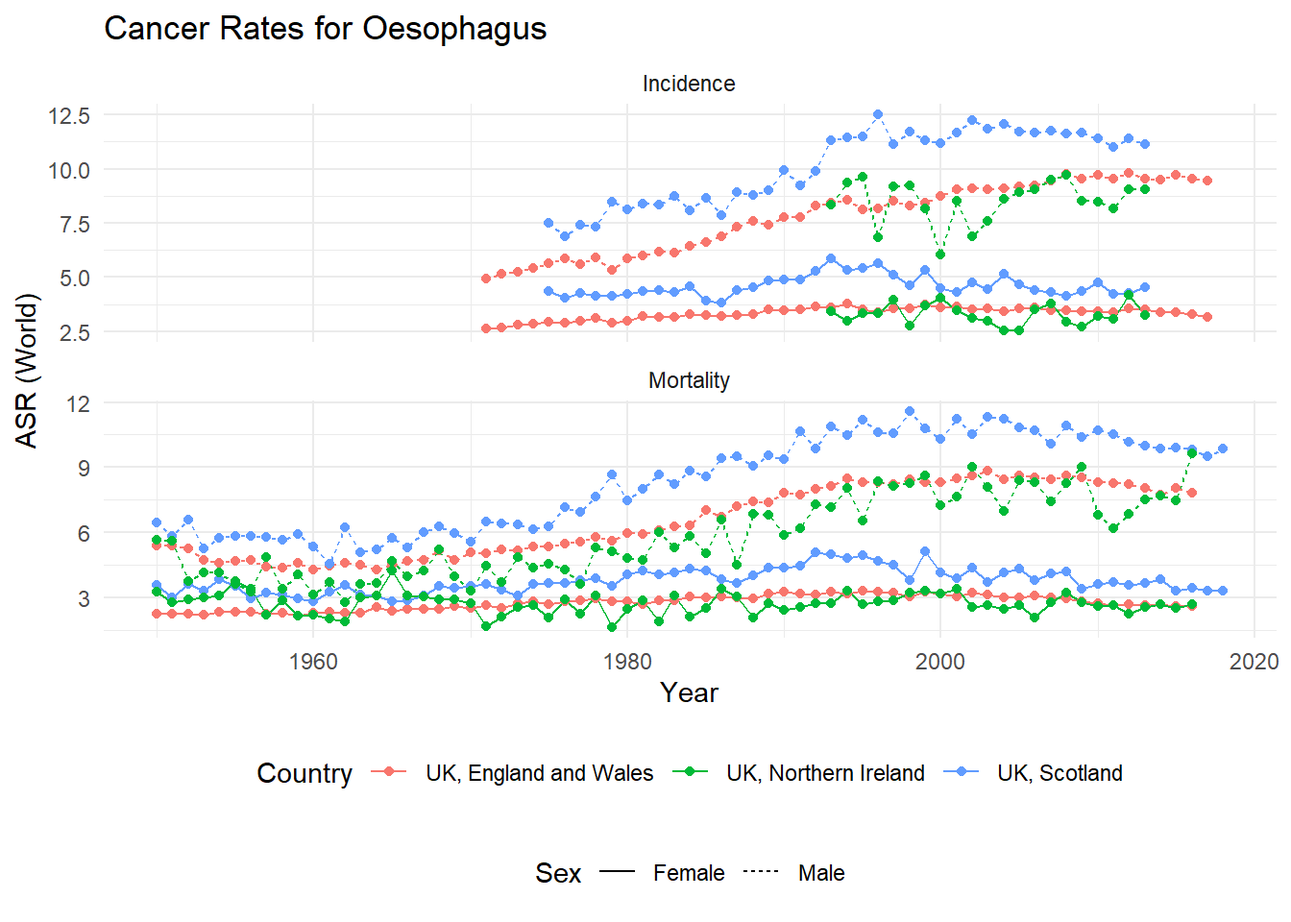
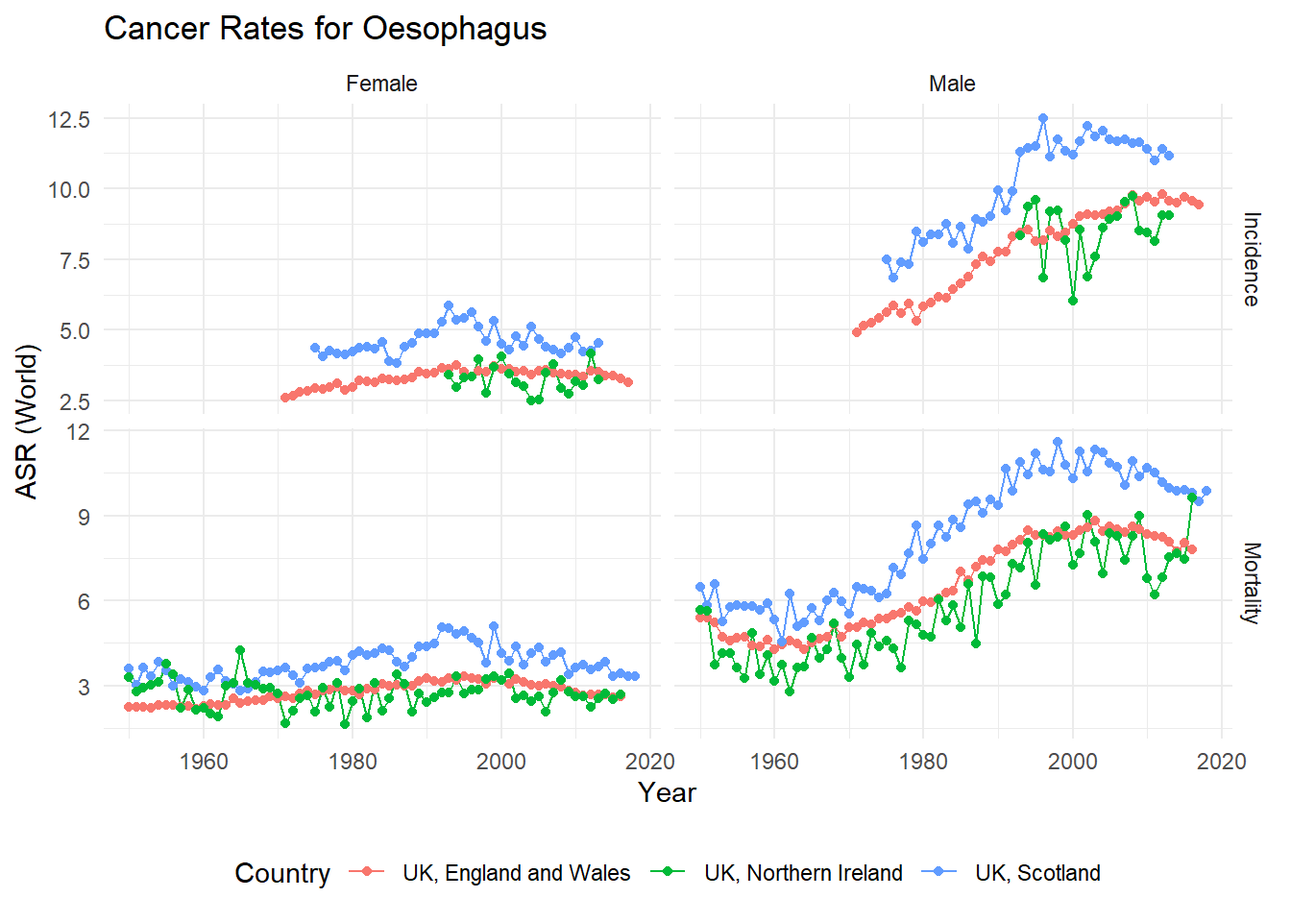
Updating Graphs
Updating cancer graphs to have free y axis

diff --git a/Code/Position Paper.html b/Code/Position Paper.html
@@ -999,20 +999,35 @@ pre > code.sourceCode > span > a:first-child::before { text-decoration: underlin
 <span id="cb25-26"><a href="#cb25-26" aria-hidden="true" tabindex="-1"></a><span class="co">#   ggtitle("Mortality Rates for Top 6 Cancers") +</span></span>
 <span id="cb25-27"><a href="#cb25-27" aria-hidden="true" tabindex="-1"></a><span class="co">#   facet_wrap(~ `Cancer label`, nrow = 3, scales = "free")</span></span>
 <span id="cb25-28"><a href="#cb25-28" aria-hidden="true" tabindex="-1"></a></span>
-<span id="cb25-29"><a href="#cb25-29" aria-hidden="true" tabindex="-1"></a><span class="cf">for</span>(site <span class="cf">in</span> <span class="fu">unique</span>(cancer_data<span class="sc">$</span><span class="st">`</span><span class="at">Cancer label</span><span class="st">`</span>)){</span>
-<span id="cb25-30"><a href="#cb25-30" aria-hidden="true" tabindex="-1"></a>  tempdata <span class="ot">&lt;-</span> cancer_data[cancer_data<span class="sc">$</span><span class="st">`</span><span class="at">Cancer label</span><span class="st">`</span><span class="sc">==</span>site,]</span>
-<span id="cb25-31"><a href="#cb25-31" aria-hidden="true" tabindex="-1"></a>  minyear <span class="ot">&lt;-</span> <span class="fu">min</span>(tempdata<span class="sc">$</span>Year)</span>
-<span id="cb25-32"><a href="#cb25-32" aria-hidden="true" tabindex="-1"></a>  maxyear <span class="ot">&lt;-</span> <span class="fu">max</span>(tempdata<span class="sc">$</span>Year)</span>
-<span id="cb25-33"><a href="#cb25-33" aria-hidden="true" tabindex="-1"></a>  <span class="fu">print</span>(<span class="fu">ggplot</span>(<span class="at">data =</span> tempdata, <span class="fu">aes</span>(<span class="at">x =</span> Year, <span class="at">y =</span> <span class="st">`</span><span class="at">ASR (World)</span><span class="st">`</span>, <span class="at">colour =</span> <span class="st">`</span><span class="at">Country label</span><span class="st">`</span>, <span class="at">linetype =</span> Sex)) <span class="sc">+</span></span>
-<span id="cb25-34"><a href="#cb25-34" aria-hidden="true" tabindex="-1"></a>  <span class="fu">geom_line</span>() <span class="sc">+</span></span>
-<span id="cb25-35"><a href="#cb25-35" aria-hidden="true" tabindex="-1"></a>  <span class="fu">geom_point</span>() <span class="sc">+</span></span>
-<span id="cb25-36"><a href="#cb25-36" aria-hidden="true" tabindex="-1"></a>  <span class="fu">xlim</span>(minyear, maxyear) <span class="sc">+</span></span>
-<span id="cb25-37"><a href="#cb25-37" aria-hidden="true" tabindex="-1"></a>  <span class="fu">ggtitle</span>(<span class="fu">paste0</span>(<span class="st">"Cancer Rates for "</span>, site)) <span class="sc">+</span></span>
-<span id="cb25-38"><a href="#cb25-38" aria-hidden="true" tabindex="-1"></a>  <span class="fu">labs</span>(<span class="at">colour =</span> <span class="st">"Country"</span>, <span class="at">linetype =</span> <span class="st">"Sex"</span>) <span class="sc">+</span></span>
-<span id="cb25-39"><a href="#cb25-39" aria-hidden="true" tabindex="-1"></a>  <span class="fu">theme</span>(<span class="at">legend.position=</span><span class="st">"bottom"</span>,<span class="at">legend.box =</span> <span class="st">"vertical"</span>) <span class="sc">+</span></span>
-<span id="cb25-40"><a href="#cb25-40" aria-hidden="true" tabindex="-1"></a>  <span class="fu">facet_wrap</span>(<span class="sc">~</span> IncMort, <span class="at">scales =</span> <span class="st">"free_y"</span>, <span class="at">dir =</span> <span class="st">"v"</span>))</span>
-<span id="cb25-41"><a href="#cb25-41" aria-hidden="true" tabindex="-1"></a></span>
-<span id="cb25-42"><a href="#cb25-42" aria-hidden="true" tabindex="-1"></a>}</span></code><button title="Copy to Clipboard" class="code-copy-button"><i class="bi"></i></button></pre></div>
+<span id="cb25-29"><a href="#cb25-29" aria-hidden="true" tabindex="-1"></a><span class="co"># for(site in unique(cancer_data$`Cancer label`)){</span></span>
+<span id="cb25-30"><a href="#cb25-30" aria-hidden="true" tabindex="-1"></a><span class="co">#   tempdata &lt;- cancer_data[cancer_data$`Cancer label`==site,]</span></span>
+<span id="cb25-31"><a href="#cb25-31" aria-hidden="true" tabindex="-1"></a><span class="co">#   minyear &lt;- min(tempdata$Year)</span></span>
+<span id="cb25-32"><a href="#cb25-32" aria-hidden="true" tabindex="-1"></a><span class="co">#   maxyear &lt;- max(tempdata$Year)</span></span>
+<span id="cb25-33"><a href="#cb25-33" aria-hidden="true" tabindex="-1"></a><span class="co">#   print(ggplot(data = tempdata, aes(x = Year, y = `ASR (World)`, colour = `Country label`, linetype = Sex)) +</span></span>
+<span id="cb25-34"><a href="#cb25-34" aria-hidden="true" tabindex="-1"></a><span class="co">#   geom_line() +</span></span>
+<span id="cb25-35"><a href="#cb25-35" aria-hidden="true" tabindex="-1"></a><span class="co">#   geom_point() +</span></span>
+<span id="cb25-36"><a href="#cb25-36" aria-hidden="true" tabindex="-1"></a><span class="co">#   xlim(minyear, maxyear) +</span></span>
+<span id="cb25-37"><a href="#cb25-37" aria-hidden="true" tabindex="-1"></a><span class="co">#   ggtitle(paste0("Cancer Rates for ", site)) +</span></span>
+<span id="cb25-38"><a href="#cb25-38" aria-hidden="true" tabindex="-1"></a><span class="co">#   labs(colour = "Country", linetype = "Sex") +</span></span>
+<span id="cb25-39"><a href="#cb25-39" aria-hidden="true" tabindex="-1"></a><span class="co">#   theme(legend.position="bottom",legend.box = "vertical") +</span></span>
+<span id="cb25-40"><a href="#cb25-40" aria-hidden="true" tabindex="-1"></a><span class="co">#   facet_wrap(~ IncMort, scales = "free_y", dir = "v"))</span></span>
+<span id="cb25-41"><a href="#cb25-41" aria-hidden="true" tabindex="-1"></a><span class="co"># </span></span>
+<span id="cb25-42"><a href="#cb25-42" aria-hidden="true" tabindex="-1"></a><span class="co"># }</span></span>
+<span id="cb25-43"><a href="#cb25-43" aria-hidden="true" tabindex="-1"></a></span>
+<span id="cb25-44"><a href="#cb25-44" aria-hidden="true" tabindex="-1"></a><span class="cf">for</span>(site <span class="cf">in</span> <span class="fu">unique</span>(cancer_data<span class="sc">$</span><span class="st">`</span><span class="at">Cancer label</span><span class="st">`</span>)){</span>
+<span id="cb25-45"><a href="#cb25-45" aria-hidden="true" tabindex="-1"></a>  tempdata <span class="ot">&lt;-</span> cancer_data[cancer_data<span class="sc">$</span><span class="st">`</span><span class="at">Cancer label</span><span class="st">`</span><span class="sc">==</span>site,]</span>
+<span id="cb25-46"><a href="#cb25-46" aria-hidden="true" tabindex="-1"></a>  minyear <span class="ot">&lt;-</span> <span class="fu">min</span>(tempdata<span class="sc">$</span>Year)</span>
+<span id="cb25-47"><a href="#cb25-47" aria-hidden="true" tabindex="-1"></a>  maxyear <span class="ot">&lt;-</span> <span class="fu">max</span>(tempdata<span class="sc">$</span>Year)</span>
+<span id="cb25-48"><a href="#cb25-48" aria-hidden="true" tabindex="-1"></a>  <span class="fu">print</span>(<span class="fu">ggplot</span>(<span class="at">data =</span> tempdata, <span class="fu">aes</span>(<span class="at">x =</span> Year, <span class="at">y =</span> <span class="st">`</span><span class="at">ASR (World)</span><span class="st">`</span>, <span class="at">colour =</span> <span class="st">`</span><span class="at">Country label</span><span class="st">`</span>)) <span class="sc">+</span></span>
+<span id="cb25-49"><a href="#cb25-49" aria-hidden="true" tabindex="-1"></a>  <span class="fu">geom_line</span>() <span class="sc">+</span></span>
+<span id="cb25-50"><a href="#cb25-50" aria-hidden="true" tabindex="-1"></a>  <span class="fu">geom_point</span>() <span class="sc">+</span></span>
+<span id="cb25-51"><a href="#cb25-51" aria-hidden="true" tabindex="-1"></a>  <span class="fu">xlim</span>(minyear, maxyear) <span class="sc">+</span></span>
+<span id="cb25-52"><a href="#cb25-52" aria-hidden="true" tabindex="-1"></a>  <span class="fu">ggtitle</span>(<span class="fu">paste0</span>(<span class="st">"Cancer Rates for "</span>, site)) <span class="sc">+</span></span>
+<span id="cb25-53"><a href="#cb25-53" aria-hidden="true" tabindex="-1"></a>  <span class="fu">labs</span>(<span class="at">colour =</span> <span class="st">"Country"</span>) <span class="sc">+</span></span>
+<span id="cb25-54"><a href="#cb25-54" aria-hidden="true" tabindex="-1"></a>  <span class="fu">theme</span>(<span class="at">legend.position=</span><span class="st">"bottom"</span>,<span class="at">legend.box =</span> <span class="st">"vertical"</span>) <span class="sc">+</span></span>
+<span id="cb25-55"><a href="#cb25-55" aria-hidden="true" tabindex="-1"></a>  <span class="fu">facet_grid</span>(IncMort<span class="sc">~</span> Sex, <span class="at">scales =</span> <span class="st">"free_y"</span>))</span>
+<span id="cb25-56"><a href="#cb25-56" aria-hidden="true" tabindex="-1"></a></span>
+<span id="cb25-57"><a href="#cb25-57" aria-hidden="true" tabindex="-1"></a>}</span></code><button title="Copy to Clipboard" class="code-copy-button"><i class="bi"></i></button></pre></div>
 <div class="cell-output-display">
 <p><img src="Position-Paper_files/figure-html/unnamed-chunk-21-1.png" class="img-fluid" width="672"></p>
 </div>
@@ -1031,104 +1046,72 @@ pre > code.sourceCode > span > a:first-child::before { text-decoration: underlin
 <div class="cell-output-display">
 <p><img src="Position-Paper_files/figure-html/unnamed-chunk-21-6.png" class="img-fluid" width="672"></p>
 </div>
-<div class="sourceCode cell-code" id="cb26"><pre class="sourceCode r code-with-copy"><code class="sourceCode r"><span id="cb26-1"><a href="#cb26-1" aria-hidden="true" tabindex="-1"></a><span class="cf">for</span>(site <span class="cf">in</span> <span class="fu">unique</span>(cancer_data<span class="sc">$</span><span class="st">`</span><span class="at">Cancer label</span><span class="st">`</span>)){</span>
-<span id="cb26-2"><a href="#cb26-2" aria-hidden="true" tabindex="-1"></a>  tempdata <span class="ot">&lt;-</span> cancer_data[cancer_data<span class="sc">$</span><span class="st">`</span><span class="at">Cancer label</span><span class="st">`</span><span class="sc">==</span>site,]</span>
-<span id="cb26-3"><a href="#cb26-3" aria-hidden="true" tabindex="-1"></a>  minyear <span class="ot">&lt;-</span> <span class="fu">min</span>(tempdata<span class="sc">$</span>Year)</span>
-<span id="cb26-4"><a href="#cb26-4" aria-hidden="true" tabindex="-1"></a>  maxyear <span class="ot">&lt;-</span> <span class="fu">max</span>(tempdata<span class="sc">$</span>Year)</span>
-<span id="cb26-5"><a href="#cb26-5" aria-hidden="true" tabindex="-1"></a>  <span class="fu">print</span>(<span class="fu">ggplot</span>(<span class="at">data =</span> tempdata, <span class="fu">aes</span>(<span class="at">x =</span> Year, <span class="at">y =</span> <span class="st">`</span><span class="at">ASR (World)</span><span class="st">`</span>, <span class="at">colour =</span> <span class="st">`</span><span class="at">Country label</span><span class="st">`</span>)) <span class="sc">+</span></span>
-<span id="cb26-6"><a href="#cb26-6" aria-hidden="true" tabindex="-1"></a>  <span class="fu">geom_line</span>() <span class="sc">+</span></span>
-<span id="cb26-7"><a href="#cb26-7" aria-hidden="true" tabindex="-1"></a>  <span class="fu">geom_point</span>() <span class="sc">+</span></span>
-<span id="cb26-8"><a href="#cb26-8" aria-hidden="true" tabindex="-1"></a>  <span class="fu">xlim</span>(minyear, maxyear) <span class="sc">+</span></span>
-<span id="cb26-9"><a href="#cb26-9" aria-hidden="true" tabindex="-1"></a>  <span class="fu">ggtitle</span>(<span class="fu">paste0</span>(<span class="st">"Cancer Rates for "</span>, site)) <span class="sc">+</span></span>
-<span id="cb26-10"><a href="#cb26-10" aria-hidden="true" tabindex="-1"></a>  <span class="fu">labs</span>(<span class="at">colour =</span> <span class="st">"Country"</span>) <span class="sc">+</span></span>
-<span id="cb26-11"><a href="#cb26-11" aria-hidden="true" tabindex="-1"></a>  <span class="fu">theme</span>(<span class="at">legend.position=</span><span class="st">"bottom"</span>,<span class="at">legend.box =</span> <span class="st">"vertical"</span>) <span class="sc">+</span></span>
-<span id="cb26-12"><a href="#cb26-12" aria-hidden="true" tabindex="-1"></a>  <span class="fu">facet_grid</span>(IncMort<span class="sc">~</span> Sex))</span>
-<span id="cb26-13"><a href="#cb26-13" aria-hidden="true" tabindex="-1"></a></span>
-<span id="cb26-14"><a href="#cb26-14" aria-hidden="true" tabindex="-1"></a>}</span></code><button title="Copy to Clipboard" class="code-copy-button"><i class="bi"></i></button></pre></div>
-<div class="cell-output-display">
-<p><img src="Position-Paper_files/figure-html/unnamed-chunk-21-7.png" class="img-fluid" width="672"></p>
-</div>
-<div class="cell-output-display">
-<p><img src="Position-Paper_files/figure-html/unnamed-chunk-21-8.png" class="img-fluid" width="672"></p>
-</div>
-<div class="cell-output-display">
-<p><img src="Position-Paper_files/figure-html/unnamed-chunk-21-9.png" class="img-fluid" width="672"></p>
-</div>
-<div class="cell-output-display">
-<p><img src="Position-Paper_files/figure-html/unnamed-chunk-21-10.png" class="img-fluid" width="672"></p>
-</div>
-<div class="cell-output-display">
-<p><img src="Position-Paper_files/figure-html/unnamed-chunk-21-11.png" class="img-fluid" width="672"></p>
-</div>
-<div class="cell-output-display">
-<p><img src="Position-Paper_files/figure-html/unnamed-chunk-21-12.png" class="img-fluid" width="672"></p>
-</div>
 </div>
 </section>
 <section id="diabetes-data" class="level2">
 <h2 class="anchored" data-anchor-id="diabetes-data">Diabetes Data</h2>
 <div class="cell">
-<div class="sourceCode cell-code" id="cb27"><pre class="sourceCode r code-with-copy"><code class="sourceCode r"><span id="cb27-1"><a href="#cb27-1" aria-hidden="true" tabindex="-1"></a>diabetes_data <span class="ot">&lt;-</span> <span class="fu">integer</span>(<span class="dv">0</span>)</span>
-<span id="cb27-2"><a href="#cb27-2" aria-hidden="true" tabindex="-1"></a></span>
-<span id="cb27-3"><a href="#cb27-3" aria-hidden="true" tabindex="-1"></a>sheets <span class="ot">&lt;-</span> <span class="fu">excel_sheets</span>(<span class="st">"Diabetes_Data.xlsx"</span>)</span>
-<span id="cb27-4"><a href="#cb27-4" aria-hidden="true" tabindex="-1"></a></span>
-<span id="cb27-5"><a href="#cb27-5" aria-hidden="true" tabindex="-1"></a>england_sheets <span class="ot">&lt;-</span> sheets[<span class="fu">grepl</span>(sheets, <span class="at">pattern =</span> <span class="st">"England"</span>)]</span>
-<span id="cb27-6"><a href="#cb27-6" aria-hidden="true" tabindex="-1"></a></span>
-<span id="cb27-7"><a href="#cb27-7" aria-hidden="true" tabindex="-1"></a><span class="cf">for</span>(sheet <span class="cf">in</span> england_sheets){</span>
-<span id="cb27-8"><a href="#cb27-8" aria-hidden="true" tabindex="-1"></a></span>
-<span id="cb27-9"><a href="#cb27-9" aria-hidden="true" tabindex="-1"></a>  nocol <span class="ot">&lt;-</span> <span class="fu">ncol</span>(<span class="fu">read_excel</span>(<span class="st">"Diabetes_Data.xlsx"</span>, <span class="at">sheet =</span> sheet))</span>
-<span id="cb27-10"><a href="#cb27-10" aria-hidden="true" tabindex="-1"></a>  tempdata <span class="ot">&lt;-</span> <span class="fu">read_excel</span>(<span class="st">"Diabetes_Data.xlsx"</span>, <span class="at">sheet =</span> sheet, <span class="at">col_types =</span> <span class="fu">c</span>(<span class="st">"text"</span>, <span class="fu">rep</span>(<span class="st">"numeric"</span>, nocol<span class="dv">-1</span>)))</span>
-<span id="cb27-11"><a href="#cb27-11" aria-hidden="true" tabindex="-1"></a>  group <span class="ot">&lt;-</span> <span class="fu">gsub</span>(<span class="at">x =</span> sheet, <span class="at">pattern =</span> <span class="st">"England_"</span>, <span class="at">replacement =</span> <span class="st">""</span>)</span>
-<span id="cb27-12"><a href="#cb27-12" aria-hidden="true" tabindex="-1"></a>  tempdata <span class="ot">&lt;-</span> <span class="fu">pull_HSE_diabetes_data</span>(<span class="at">data =</span> tempdata, <span class="at">group =</span> group)</span>
-<span id="cb27-13"><a href="#cb27-13" aria-hidden="true" tabindex="-1"></a>  tempdata<span class="sc">$</span>section <span class="ot">&lt;-</span> <span class="st">"Diabetes"</span></span>
-<span id="cb27-14"><a href="#cb27-14" aria-hidden="true" tabindex="-1"></a>  diabetes_data <span class="ot">&lt;-</span> <span class="fu">rbind</span>(diabetes_data, tempdata)</span>
-<span id="cb27-15"><a href="#cb27-15" aria-hidden="true" tabindex="-1"></a>        </span>
-<span id="cb27-16"><a href="#cb27-16" aria-hidden="true" tabindex="-1"></a>}</span>
-<span id="cb27-17"><a href="#cb27-17" aria-hidden="true" tabindex="-1"></a></span>
-<span id="cb27-18"><a href="#cb27-18" aria-hidden="true" tabindex="-1"></a>scotland_sheets <span class="ot">&lt;-</span> sheets[<span class="fu">grepl</span>(sheets, <span class="at">pattern =</span> <span class="st">"Scotland"</span>)]</span>
-<span id="cb27-19"><a href="#cb27-19" aria-hidden="true" tabindex="-1"></a></span>
-<span id="cb27-20"><a href="#cb27-20" aria-hidden="true" tabindex="-1"></a></span>
-<span id="cb27-21"><a href="#cb27-21" aria-hidden="true" tabindex="-1"></a><span class="cf">for</span>(sheet <span class="cf">in</span> scotland_sheets){</span>
-<span id="cb27-22"><a href="#cb27-22" aria-hidden="true" tabindex="-1"></a>  tempdata <span class="ot">&lt;-</span> <span class="fu">read_excel</span>(<span class="st">"Diabetes_Data.xlsx"</span>, <span class="at">sheet =</span> sheet)</span>
-<span id="cb27-23"><a href="#cb27-23" aria-hidden="true" tabindex="-1"></a>  group <span class="ot">&lt;-</span> <span class="fu">gsub</span>(<span class="at">x =</span> sheet, <span class="at">pattern =</span> <span class="st">"Scotland_"</span>, <span class="at">replacement =</span> <span class="st">""</span>)</span>
-<span id="cb27-24"><a href="#cb27-24" aria-hidden="true" tabindex="-1"></a>  tempdata <span class="ot">&lt;-</span> <span class="fu">pull_SHS_data</span>(<span class="at">data =</span> tempdata, <span class="at">group =</span> group)</span>
-<span id="cb27-25"><a href="#cb27-25" aria-hidden="true" tabindex="-1"></a>  tempdata<span class="sc">$</span>section <span class="ot">&lt;-</span> <span class="st">"Diabetes"</span></span>
-<span id="cb27-26"><a href="#cb27-26" aria-hidden="true" tabindex="-1"></a>  tempdata<span class="sc">$</span>variable <span class="ot">=</span> <span class="fu">ifelse</span>(tempdata<span class="sc">$</span>variable <span class="sc">==</span> <span class="st">"Yes"</span>, <span class="st">"% Diabetes"</span>, <span class="st">"% No Diabetes"</span>)</span>
-<span id="cb27-27"><a href="#cb27-27" aria-hidden="true" tabindex="-1"></a>  diabetes_data <span class="ot">&lt;-</span> <span class="fu">rbind</span>(diabetes_data, tempdata)</span>
-<span id="cb27-28"><a href="#cb27-28" aria-hidden="true" tabindex="-1"></a>}</span>
-<span id="cb27-29"><a href="#cb27-29" aria-hidden="true" tabindex="-1"></a></span>
-<span id="cb27-30"><a href="#cb27-30" aria-hidden="true" tabindex="-1"></a>tempdata <span class="ot">&lt;-</span> <span class="fu">read_excel</span>(<span class="st">"Diabetes_Data.xlsx"</span>, <span class="at">sheet =</span> <span class="st">"NIreland"</span>) </span>
-<span id="cb27-31"><a href="#cb27-31" aria-hidden="true" tabindex="-1"></a></span>
-<span id="cb27-32"><a href="#cb27-32" aria-hidden="true" tabindex="-1"></a>tempdata <span class="ot">&lt;-</span> tempdata <span class="sc">|&gt;</span></span>
-<span id="cb27-33"><a href="#cb27-33" aria-hidden="true" tabindex="-1"></a>  <span class="fu">pivot_longer</span>(<span class="at">cols =</span> <span class="fu">colnames</span>(tempdata)[<span class="dv">2</span><span class="sc">:</span><span class="fu">ncol</span>(tempdata)]) <span class="sc">|&gt;</span></span>
-<span id="cb27-34"><a href="#cb27-34" aria-hidden="true" tabindex="-1"></a>  <span class="fu">rename</span>(<span class="at">year =</span> name, <span class="at">section =</span> <span class="st">`</span><span class="at">...1</span><span class="st">`</span>) <span class="sc">|&gt;</span></span>
-<span id="cb27-35"><a href="#cb27-35" aria-hidden="true" tabindex="-1"></a>  <span class="fu">mutate</span>(<span class="at">value =</span> value<span class="sc">/</span><span class="dv">10</span>) <span class="sc">|&gt;</span></span>
-<span id="cb27-36"><a href="#cb27-36" aria-hidden="true" tabindex="-1"></a>  <span class="fu">mutate</span>(<span class="at">age_group =</span> <span class="st">"17+"</span>, <span class="at">variable =</span> <span class="st">"% Diabetes"</span>, <span class="at">group =</span> <span class="st">"All"</span>, <span class="at">country =</span> <span class="st">"N. Ireland"</span>)</span>
-<span id="cb27-37"><a href="#cb27-37" aria-hidden="true" tabindex="-1"></a></span>
-<span id="cb27-38"><a href="#cb27-38" aria-hidden="true" tabindex="-1"></a>diabetes_data <span class="ot">&lt;-</span> <span class="fu">rbind</span>(diabetes_data, tempdata)</span>
-<span id="cb27-39"><a href="#cb27-39" aria-hidden="true" tabindex="-1"></a></span>
-<span id="cb27-40"><a href="#cb27-40" aria-hidden="true" tabindex="-1"></a>diabetes_data <span class="sc">|&gt;</span></span>
-<span id="cb27-41"><a href="#cb27-41" aria-hidden="true" tabindex="-1"></a>  <span class="fu">mutate</span>(<span class="at">year =</span> <span class="fu">case_when</span>(</span>
-<span id="cb27-42"><a href="#cb27-42" aria-hidden="true" tabindex="-1"></a>    <span class="fu">grepl</span>(year, <span class="at">pattern =</span> <span class="st">"</span><span class="sc">\\</span><span class="st">/"</span>) <span class="sc">~</span> <span class="fu">map_chr</span>(<span class="fu">strsplit</span>(year, <span class="st">"/"</span>), <span class="dv">1</span>),</span>
-<span id="cb27-43"><a href="#cb27-43" aria-hidden="true" tabindex="-1"></a>    <span class="cn">TRUE</span> <span class="sc">~</span> year),</span>
-<span id="cb27-44"><a href="#cb27-44" aria-hidden="true" tabindex="-1"></a>    <span class="at">year =</span> <span class="fu">as.numeric</span>(year),</span>
-<span id="cb27-45"><a href="#cb27-45" aria-hidden="true" tabindex="-1"></a>  <span class="at">age_group =</span> <span class="fu">case_when</span>(</span>
-<span id="cb27-46"><a href="#cb27-46" aria-hidden="true" tabindex="-1"></a>    age_group <span class="sc">%in%</span> <span class="fu">c</span>(<span class="st">"All men"</span>, <span class="st">"All women"</span>, <span class="st">"All"</span>, <span class="st">"All adults"</span>, <span class="st">"Total"</span>) <span class="sc">~</span> <span class="st">"16+"</span>,</span>
-<span id="cb27-47"><a href="#cb27-47" aria-hidden="true" tabindex="-1"></a>    <span class="fu">grepl</span>(age_group, <span class="at">pattern =</span> <span class="st">"Age "</span>) <span class="sc">~</span> <span class="fu">gsub</span>(age_group, <span class="at">pattern =</span> <span class="st">"Age "</span>, <span class="at">replacement =</span> <span class="st">""</span>),</span>
-<span id="cb27-48"><a href="#cb27-48" aria-hidden="true" tabindex="-1"></a>    <span class="fu">grepl</span>(age_group, <span class="at">pattern =</span> <span class="st">" years"</span>) <span class="sc">~</span> <span class="fu">gsub</span>(age_group, <span class="at">pattern =</span> <span class="st">" years"</span>, <span class="at">replacement =</span> <span class="st">""</span>),</span>
-<span id="cb27-49"><a href="#cb27-49" aria-hidden="true" tabindex="-1"></a>    <span class="fu">grepl</span>(age_group, <span class="at">pattern =</span> <span class="st">"All adults "</span>) <span class="sc">~</span> <span class="fu">gsub</span>(age_group, <span class="at">pattern =</span> <span class="st">"All adults "</span>, <span class="at">replacement =</span> <span class="st">""</span>),</span>
-<span id="cb27-50"><a href="#cb27-50" aria-hidden="true" tabindex="-1"></a>    <span class="fu">grepl</span>(age_group, <span class="at">pattern =</span> <span class="st">"All aged "</span>) <span class="sc">~</span> <span class="fu">gsub</span>(age_group, <span class="at">pattern =</span> <span class="st">"All aged "</span>, <span class="at">replacement =</span> <span class="st">""</span>),</span>
-<span id="cb27-51"><a href="#cb27-51" aria-hidden="true" tabindex="-1"></a>    <span class="cn">TRUE</span> <span class="sc">~</span> age_group</span>
-<span id="cb27-52"><a href="#cb27-52" aria-hidden="true" tabindex="-1"></a>  )) <span class="sc">|&gt;</span></span>
-<span id="cb27-53"><a href="#cb27-53" aria-hidden="true" tabindex="-1"></a>  <span class="fu">filter</span>(variable <span class="sc">==</span> <span class="st">"% Diabetes"</span> <span class="sc">&amp;</span> age_group <span class="sc">%in%</span> <span class="fu">c</span>(<span class="st">"16+"</span>, <span class="st">"17+"</span>) <span class="sc">&amp;</span> <span class="fu">grepl</span>(group, <span class="at">pattern =</span> <span class="st">"All"</span>)) <span class="sc">|&gt;</span></span>
-<span id="cb27-54"><a href="#cb27-54" aria-hidden="true" tabindex="-1"></a>  <span class="fu">ggplot</span>(<span class="fu">aes</span>(<span class="at">x =</span> year, <span class="at">y =</span> value, <span class="at">colour =</span> country)) <span class="sc">+</span></span>
-<span id="cb27-55"><a href="#cb27-55" aria-hidden="true" tabindex="-1"></a>  <span class="fu">geom_line</span>() <span class="sc">+</span></span>
-<span id="cb27-56"><a href="#cb27-56" aria-hidden="true" tabindex="-1"></a>  <span class="fu">geom_point</span>() <span class="sc">+</span></span>
-<span id="cb27-57"><a href="#cb27-57" aria-hidden="true" tabindex="-1"></a>  <span class="fu">xlab</span>(<span class="st">"Year"</span>) <span class="sc">+</span></span>
-<span id="cb27-58"><a href="#cb27-58" aria-hidden="true" tabindex="-1"></a>  <span class="fu">ylab</span>(<span class="st">"% Diabetes"</span>) <span class="sc">+</span></span>
-<span id="cb27-59"><a href="#cb27-59" aria-hidden="true" tabindex="-1"></a>  <span class="fu">ggtitle</span>(<span class="st">"% Diabetes in Adults"</span>) <span class="sc">+</span></span>
-<span id="cb27-60"><a href="#cb27-60" aria-hidden="true" tabindex="-1"></a>  <span class="fu">labs</span>(<span class="at">colour =</span>  <span class="st">"Country"</span>, <span class="at">caption =</span> <span class="st">"*Adult for England and Scotland defined as aged &gt;15, for N. Ireland defined as aged &gt;16."</span>) <span class="sc">+</span></span>
-<span id="cb27-61"><a href="#cb27-61" aria-hidden="true" tabindex="-1"></a>  <span class="fu">scale_x_continuous</span>(<span class="at">breaks =</span> <span class="fu">pretty_breaks</span>())</span></code><button title="Copy to Clipboard" class="code-copy-button"><i class="bi"></i></button></pre></div>
+<div class="sourceCode cell-code" id="cb26"><pre class="sourceCode r code-with-copy"><code class="sourceCode r"><span id="cb26-1"><a href="#cb26-1" aria-hidden="true" tabindex="-1"></a>diabetes_data <span class="ot">&lt;-</span> <span class="fu">integer</span>(<span class="dv">0</span>)</span>
+<span id="cb26-2"><a href="#cb26-2" aria-hidden="true" tabindex="-1"></a></span>
+<span id="cb26-3"><a href="#cb26-3" aria-hidden="true" tabindex="-1"></a>sheets <span class="ot">&lt;-</span> <span class="fu">excel_sheets</span>(<span class="st">"Diabetes_Data.xlsx"</span>)</span>
+<span id="cb26-4"><a href="#cb26-4" aria-hidden="true" tabindex="-1"></a></span>
+<span id="cb26-5"><a href="#cb26-5" aria-hidden="true" tabindex="-1"></a>england_sheets <span class="ot">&lt;-</span> sheets[<span class="fu">grepl</span>(sheets, <span class="at">pattern =</span> <span class="st">"England"</span>)]</span>
+<span id="cb26-6"><a href="#cb26-6" aria-hidden="true" tabindex="-1"></a></span>
+<span id="cb26-7"><a href="#cb26-7" aria-hidden="true" tabindex="-1"></a><span class="cf">for</span>(sheet <span class="cf">in</span> england_sheets){</span>
+<span id="cb26-8"><a href="#cb26-8" aria-hidden="true" tabindex="-1"></a></span>
+<span id="cb26-9"><a href="#cb26-9" aria-hidden="true" tabindex="-1"></a>  nocol <span class="ot">&lt;-</span> <span class="fu">ncol</span>(<span class="fu">read_excel</span>(<span class="st">"Diabetes_Data.xlsx"</span>, <span class="at">sheet =</span> sheet))</span>
+<span id="cb26-10"><a href="#cb26-10" aria-hidden="true" tabindex="-1"></a>  tempdata <span class="ot">&lt;-</span> <span class="fu">read_excel</span>(<span class="st">"Diabetes_Data.xlsx"</span>, <span class="at">sheet =</span> sheet, <span class="at">col_types =</span> <span class="fu">c</span>(<span class="st">"text"</span>, <span class="fu">rep</span>(<span class="st">"numeric"</span>, nocol<span class="dv">-1</span>)))</span>
+<span id="cb26-11"><a href="#cb26-11" aria-hidden="true" tabindex="-1"></a>  group <span class="ot">&lt;-</span> <span class="fu">gsub</span>(<span class="at">x =</span> sheet, <span class="at">pattern =</span> <span class="st">"England_"</span>, <span class="at">replacement =</span> <span class="st">""</span>)</span>
+<span id="cb26-12"><a href="#cb26-12" aria-hidden="true" tabindex="-1"></a>  tempdata <span class="ot">&lt;-</span> <span class="fu">pull_HSE_diabetes_data</span>(<span class="at">data =</span> tempdata, <span class="at">group =</span> group)</span>
+<span id="cb26-13"><a href="#cb26-13" aria-hidden="true" tabindex="-1"></a>  tempdata<span class="sc">$</span>section <span class="ot">&lt;-</span> <span class="st">"Diabetes"</span></span>
+<span id="cb26-14"><a href="#cb26-14" aria-hidden="true" tabindex="-1"></a>  diabetes_data <span class="ot">&lt;-</span> <span class="fu">rbind</span>(diabetes_data, tempdata)</span>
+<span id="cb26-15"><a href="#cb26-15" aria-hidden="true" tabindex="-1"></a>        </span>
+<span id="cb26-16"><a href="#cb26-16" aria-hidden="true" tabindex="-1"></a>}</span>
+<span id="cb26-17"><a href="#cb26-17" aria-hidden="true" tabindex="-1"></a></span>
+<span id="cb26-18"><a href="#cb26-18" aria-hidden="true" tabindex="-1"></a>scotland_sheets <span class="ot">&lt;-</span> sheets[<span class="fu">grepl</span>(sheets, <span class="at">pattern =</span> <span class="st">"Scotland"</span>)]</span>
+<span id="cb26-19"><a href="#cb26-19" aria-hidden="true" tabindex="-1"></a></span>
+<span id="cb26-20"><a href="#cb26-20" aria-hidden="true" tabindex="-1"></a></span>
+<span id="cb26-21"><a href="#cb26-21" aria-hidden="true" tabindex="-1"></a><span class="cf">for</span>(sheet <span class="cf">in</span> scotland_sheets){</span>
+<span id="cb26-22"><a href="#cb26-22" aria-hidden="true" tabindex="-1"></a>  tempdata <span class="ot">&lt;-</span> <span class="fu">read_excel</span>(<span class="st">"Diabetes_Data.xlsx"</span>, <span class="at">sheet =</span> sheet)</span>
+<span id="cb26-23"><a href="#cb26-23" aria-hidden="true" tabindex="-1"></a>  group <span class="ot">&lt;-</span> <span class="fu">gsub</span>(<span class="at">x =</span> sheet, <span class="at">pattern =</span> <span class="st">"Scotland_"</span>, <span class="at">replacement =</span> <span class="st">""</span>)</span>
+<span id="cb26-24"><a href="#cb26-24" aria-hidden="true" tabindex="-1"></a>  tempdata <span class="ot">&lt;-</span> <span class="fu">pull_SHS_data</span>(<span class="at">data =</span> tempdata, <span class="at">group =</span> group)</span>
+<span id="cb26-25"><a href="#cb26-25" aria-hidden="true" tabindex="-1"></a>  tempdata<span class="sc">$</span>section <span class="ot">&lt;-</span> <span class="st">"Diabetes"</span></span>
+<span id="cb26-26"><a href="#cb26-26" aria-hidden="true" tabindex="-1"></a>  tempdata<span class="sc">$</span>variable <span class="ot">=</span> <span class="fu">ifelse</span>(tempdata<span class="sc">$</span>variable <span class="sc">==</span> <span class="st">"Yes"</span>, <span class="st">"% Diabetes"</span>, <span class="st">"% No Diabetes"</span>)</span>
+<span id="cb26-27"><a href="#cb26-27" aria-hidden="true" tabindex="-1"></a>  diabetes_data <span class="ot">&lt;-</span> <span class="fu">rbind</span>(diabetes_data, tempdata)</span>
+<span id="cb26-28"><a href="#cb26-28" aria-hidden="true" tabindex="-1"></a>}</span>
+<span id="cb26-29"><a href="#cb26-29" aria-hidden="true" tabindex="-1"></a></span>
+<span id="cb26-30"><a href="#cb26-30" aria-hidden="true" tabindex="-1"></a>tempdata <span class="ot">&lt;-</span> <span class="fu">read_excel</span>(<span class="st">"Diabetes_Data.xlsx"</span>, <span class="at">sheet =</span> <span class="st">"NIreland"</span>) </span>
+<span id="cb26-31"><a href="#cb26-31" aria-hidden="true" tabindex="-1"></a></span>
+<span id="cb26-32"><a href="#cb26-32" aria-hidden="true" tabindex="-1"></a>tempdata <span class="ot">&lt;-</span> tempdata <span class="sc">|&gt;</span></span>
+<span id="cb26-33"><a href="#cb26-33" aria-hidden="true" tabindex="-1"></a>  <span class="fu">pivot_longer</span>(<span class="at">cols =</span> <span class="fu">colnames</span>(tempdata)[<span class="dv">2</span><span class="sc">:</span><span class="fu">ncol</span>(tempdata)]) <span class="sc">|&gt;</span></span>
+<span id="cb26-34"><a href="#cb26-34" aria-hidden="true" tabindex="-1"></a>  <span class="fu">rename</span>(<span class="at">year =</span> name, <span class="at">section =</span> <span class="st">`</span><span class="at">...1</span><span class="st">`</span>) <span class="sc">|&gt;</span></span>
+<span id="cb26-35"><a href="#cb26-35" aria-hidden="true" tabindex="-1"></a>  <span class="fu">mutate</span>(<span class="at">value =</span> value<span class="sc">/</span><span class="dv">10</span>) <span class="sc">|&gt;</span></span>
+<span id="cb26-36"><a href="#cb26-36" aria-hidden="true" tabindex="-1"></a>  <span class="fu">mutate</span>(<span class="at">age_group =</span> <span class="st">"17+"</span>, <span class="at">variable =</span> <span class="st">"% Diabetes"</span>, <span class="at">group =</span> <span class="st">"All"</span>, <span class="at">country =</span> <span class="st">"N. Ireland"</span>)</span>
+<span id="cb26-37"><a href="#cb26-37" aria-hidden="true" tabindex="-1"></a></span>
+<span id="cb26-38"><a href="#cb26-38" aria-hidden="true" tabindex="-1"></a>diabetes_data <span class="ot">&lt;-</span> <span class="fu">rbind</span>(diabetes_data, tempdata)</span>
+<span id="cb26-39"><a href="#cb26-39" aria-hidden="true" tabindex="-1"></a></span>
+<span id="cb26-40"><a href="#cb26-40" aria-hidden="true" tabindex="-1"></a>diabetes_data <span class="sc">|&gt;</span></span>
+<span id="cb26-41"><a href="#cb26-41" aria-hidden="true" tabindex="-1"></a>  <span class="fu">mutate</span>(<span class="at">year =</span> <span class="fu">case_when</span>(</span>
+<span id="cb26-42"><a href="#cb26-42" aria-hidden="true" tabindex="-1"></a>    <span class="fu">grepl</span>(year, <span class="at">pattern =</span> <span class="st">"</span><span class="sc">\\</span><span class="st">/"</span>) <span class="sc">~</span> <span class="fu">map_chr</span>(<span class="fu">strsplit</span>(year, <span class="st">"/"</span>), <span class="dv">1</span>),</span>
+<span id="cb26-43"><a href="#cb26-43" aria-hidden="true" tabindex="-1"></a>    <span class="cn">TRUE</span> <span class="sc">~</span> year),</span>
+<span id="cb26-44"><a href="#cb26-44" aria-hidden="true" tabindex="-1"></a>    <span class="at">year =</span> <span class="fu">as.numeric</span>(year),</span>
+<span id="cb26-45"><a href="#cb26-45" aria-hidden="true" tabindex="-1"></a>  <span class="at">age_group =</span> <span class="fu">case_when</span>(</span>
+<span id="cb26-46"><a href="#cb26-46" aria-hidden="true" tabindex="-1"></a>    age_group <span class="sc">%in%</span> <span class="fu">c</span>(<span class="st">"All men"</span>, <span class="st">"All women"</span>, <span class="st">"All"</span>, <span class="st">"All adults"</span>, <span class="st">"Total"</span>) <span class="sc">~</span> <span class="st">"16+"</span>,</span>
+<span id="cb26-47"><a href="#cb26-47" aria-hidden="true" tabindex="-1"></a>    <span class="fu">grepl</span>(age_group, <span class="at">pattern =</span> <span class="st">"Age "</span>) <span class="sc">~</span> <span class="fu">gsub</span>(age_group, <span class="at">pattern =</span> <span class="st">"Age "</span>, <span class="at">replacement =</span> <span class="st">""</span>),</span>
+<span id="cb26-48"><a href="#cb26-48" aria-hidden="true" tabindex="-1"></a>    <span class="fu">grepl</span>(age_group, <span class="at">pattern =</span> <span class="st">" years"</span>) <span class="sc">~</span> <span class="fu">gsub</span>(age_group, <span class="at">pattern =</span> <span class="st">" years"</span>, <span class="at">replacement =</span> <span class="st">""</span>),</span>
+<span id="cb26-49"><a href="#cb26-49" aria-hidden="true" tabindex="-1"></a>    <span class="fu">grepl</span>(age_group, <span class="at">pattern =</span> <span class="st">"All adults "</span>) <span class="sc">~</span> <span class="fu">gsub</span>(age_group, <span class="at">pattern =</span> <span class="st">"All adults "</span>, <span class="at">replacement =</span> <span class="st">""</span>),</span>
+<span id="cb26-50"><a href="#cb26-50" aria-hidden="true" tabindex="-1"></a>    <span class="fu">grepl</span>(age_group, <span class="at">pattern =</span> <span class="st">"All aged "</span>) <span class="sc">~</span> <span class="fu">gsub</span>(age_group, <span class="at">pattern =</span> <span class="st">"All aged "</span>, <span class="at">replacement =</span> <span class="st">""</span>),</span>
+<span id="cb26-51"><a href="#cb26-51" aria-hidden="true" tabindex="-1"></a>    <span class="cn">TRUE</span> <span class="sc">~</span> age_group</span>
+<span id="cb26-52"><a href="#cb26-52" aria-hidden="true" tabindex="-1"></a>  )) <span class="sc">|&gt;</span></span>
+<span id="cb26-53"><a href="#cb26-53" aria-hidden="true" tabindex="-1"></a>  <span class="fu">filter</span>(variable <span class="sc">==</span> <span class="st">"% Diabetes"</span> <span class="sc">&amp;</span> age_group <span class="sc">%in%</span> <span class="fu">c</span>(<span class="st">"16+"</span>, <span class="st">"17+"</span>) <span class="sc">&amp;</span> <span class="fu">grepl</span>(group, <span class="at">pattern =</span> <span class="st">"All"</span>)) <span class="sc">|&gt;</span></span>
+<span id="cb26-54"><a href="#cb26-54" aria-hidden="true" tabindex="-1"></a>  <span class="fu">ggplot</span>(<span class="fu">aes</span>(<span class="at">x =</span> year, <span class="at">y =</span> value, <span class="at">colour =</span> country)) <span class="sc">+</span></span>
+<span id="cb26-55"><a href="#cb26-55" aria-hidden="true" tabindex="-1"></a>  <span class="fu">geom_line</span>() <span class="sc">+</span></span>
+<span id="cb26-56"><a href="#cb26-56" aria-hidden="true" tabindex="-1"></a>  <span class="fu">geom_point</span>() <span class="sc">+</span></span>
+<span id="cb26-57"><a href="#cb26-57" aria-hidden="true" tabindex="-1"></a>  <span class="fu">xlab</span>(<span class="st">"Year"</span>) <span class="sc">+</span></span>
+<span id="cb26-58"><a href="#cb26-58" aria-hidden="true" tabindex="-1"></a>  <span class="fu">ylab</span>(<span class="st">"% Diabetes"</span>) <span class="sc">+</span></span>
+<span id="cb26-59"><a href="#cb26-59" aria-hidden="true" tabindex="-1"></a>  <span class="fu">ggtitle</span>(<span class="st">"% Diabetes in Adults"</span>) <span class="sc">+</span></span>
+<span id="cb26-60"><a href="#cb26-60" aria-hidden="true" tabindex="-1"></a>  <span class="fu">labs</span>(<span class="at">colour =</span>  <span class="st">"Country"</span>, <span class="at">caption =</span> <span class="st">"*Adult for England and Scotland defined as aged &gt;15, for N. Ireland defined as aged &gt;16."</span>) <span class="sc">+</span></span>
+<span id="cb26-61"><a href="#cb26-61" aria-hidden="true" tabindex="-1"></a>  <span class="fu">scale_x_continuous</span>(<span class="at">breaks =</span> <span class="fu">pretty_breaks</span>())</span></code><button title="Copy to Clipboard" class="code-copy-button"><i class="bi"></i></button></pre></div>
 <div class="cell-output-display">
 <p><img src="Position-Paper_files/figure-html/unnamed-chunk-22-1.png" class="img-fluid" width="672"></p>
 </div>
